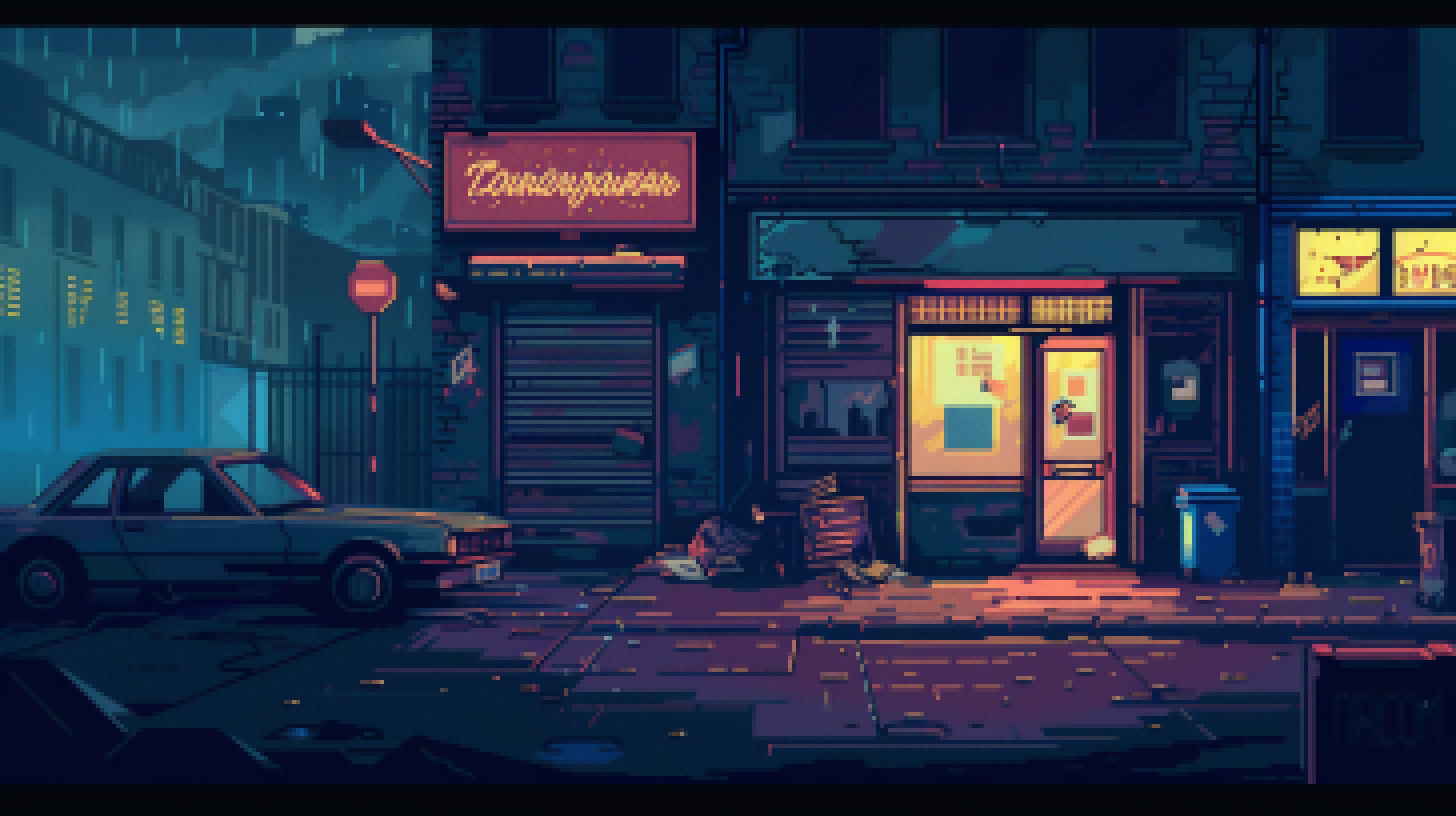
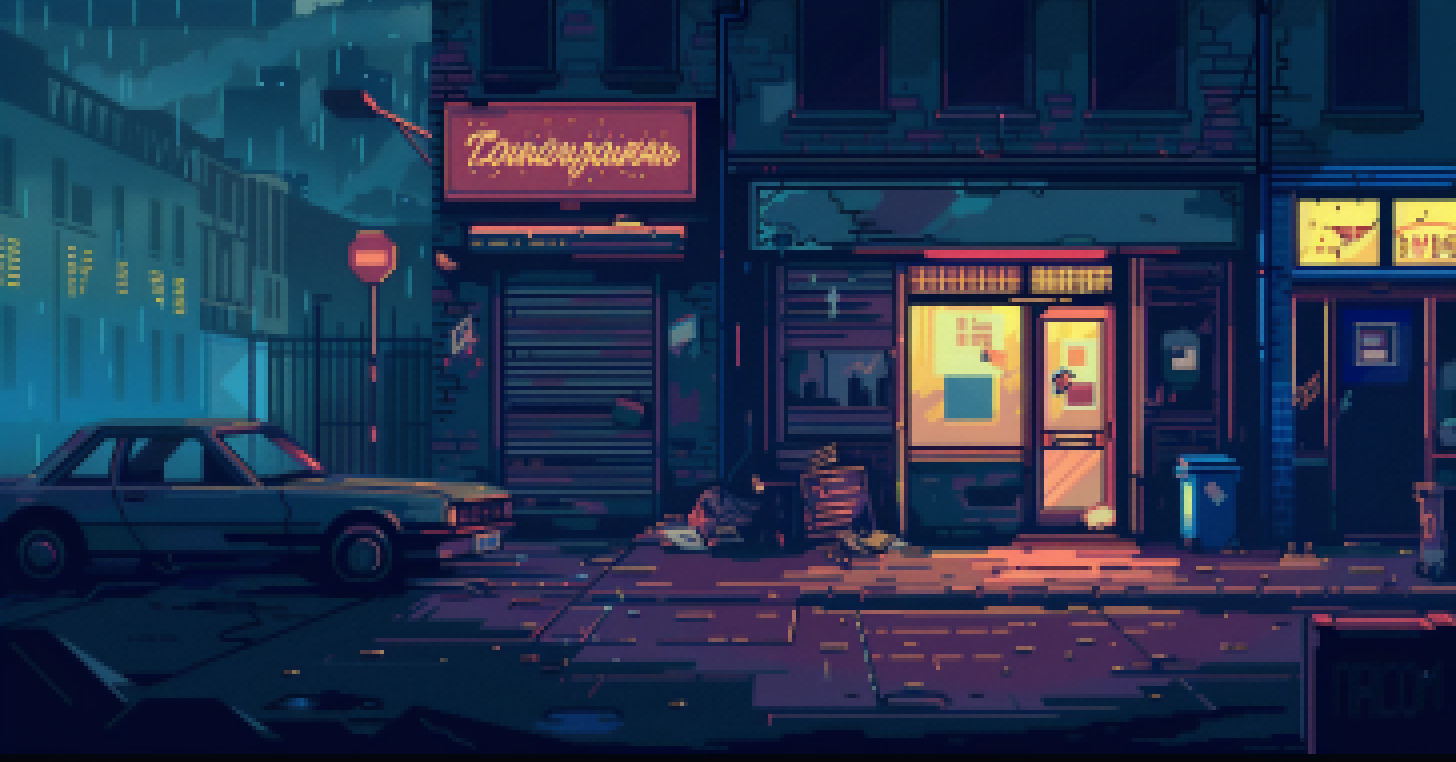
schöner spaghetticode

diff --git a/script.js b/script.js
@@ -4,18 +4,25 @@ const ctx = canvas.getContext("2d");
 canvas.width = 800;
 canvas.height = 400;
 
-// Hintergrund zeichnen
-function drawBackground() {
-  const img = new Image();
-  img.src = './assets/background/Rusted_4.png';
-  ctx.drawImage(img, 0, 0, canvas.width, canvas.height)
+const background = new Image();
+background.src = './assets/background/Rusted_4.webp'; 
+// Hintergrund zeichnen/async damit der background laden kann
+
+background.onload = () => {
+  drawBackground()
 }
+
+function drawBackground() {
+  ctx.drawImage(background, 0, 0, canvas.width, canvas.height)
+}
+
 // initialisiere sprite sheet
 const player1SpriteSheet = new Image();
 player1SpriteSheet.src ="./assets/sprites/Bancho/Sprite_Sheet/Bancho_Idle.png"; 
 
 const player2SpriteSheet = new Image();
 player2SpriteSheet.src ="./assets/sprites/BruteArms/Sprite_Sheet/BruteArm_Idle.png";
+
 // Animationseinstellungen
 const spriteConfig = {
     frameWidth: 100, // Width of each frame in the sprite sheet
@@ -27,17 +34,10 @@ const spriteConfig = {
     frameTimer: 0, // Timer to track animation updates
   };
 
-const player1Sprite = new Image();
-player1Sprite.src = "assets/sprites/Bancho/Sprite Sheets/Bancho_Idle-png"; // Pfad zum Bild für Spieler 1
-
-const player2Sprite = new Image();
-player2Sprite.src = "sprites/player2.png"; // Pfad zum Bild für Spieler 2
-
-
 // Charakter-Objekte
 const player1 = {
   x: 100,
-  y: 190,
+  y: 150,
   width: 200,
   height: 200,
   color: "blue",
@@ -56,14 +56,14 @@ const player1 = {
 
 const player2 = {
   x: 600,
-  y: 190,
+  y: 150,
   width: 200,
   height: 200,
   color: "green",
   speed: 5,
   velocityY: 0,
   isJumping: false,
-  jumpStrength: -15,
+  jumpStrength: -17,
   gravity: 0.8,
   action: null,
   health: 300,
@@ -72,6 +72,21 @@ const player2 = {
   damageAttack1: 5,
   damageAttack2: 10,
 };
+
+let obstacle1 = {
+  width: 120,
+  height: 160
+}
+
+let obstacle2 = {
+  width: 120,
+  height: 160
+}
+
+let obstacle = {
+  width: 120,
+  height: 160
+}
 
 // Spieler zeichnen (mit Animation)
 function drawPlayer(player, sprite, currentFrame) {
@@ -84,21 +99,13 @@ function drawPlayer(player, sprite, currentFrame) {
       player.x, // Destination X
       player.y, // Destination Y
       player.width, // Drawn width
-      player.height // Drawn height
+      player.height, // Drawn height
     );
   }
   
   function updateAnimationFrames() {
-    // spriteConfig.frameTimer += deltaTime;
 
-    // if (spriteConfig.frameTimer >= spriteConfig.animationSpeed) {
-    //   // Increment frames for both players
-    //   spriteConfig.player1Frame = (spriteConfig.player1Frame + 1) % spriteConfig.totalFrames;
-    //   spriteConfig.player2Frame = (spriteConfig.player2Frame + 1) % spriteConfig.totalFrames;
-  
-    //   // Reset timer
-    //   spriteConfig.frameTimer = 0;
-    // }
+
     if (player1.action === "jump") {
       spriteConfig.player1Frame = (spriteConfig.player1Frame + 1) % 4; // Nur 4 Frames für Sprung
     } else if (player1.action === "attack1") {
@@ -167,8 +174,8 @@ function update() {
   if (player1.isJumping) {
     player1.y += player1.velocityY;
     player1.velocityY += player1.gravity;
-    if (player1.y >= 300) {
-      player1.y = 300;
+    if (player1.y >= 150) {
+      player1.y = 150;
       player1.velocityY = 0;
       player1.isJumping = false;
     }
@@ -185,8 +192,8 @@ function update() {
   if (player2.isJumping) {
     player2.y += player2.velocityY;
     player2.velocityY += player2.gravity;
-    if (player2.y >= 300) {
-      player2.y = 300;
+    if (player2.y >= 150) {
+      player2.y = 150;
       player2.velocityY = 0;
       player2.isJumping = false;
     }
@@ -198,12 +205,13 @@ function update() {
 }
 
 // Überprüfe Modellkollision
-function checkModelOverlap(player1, player2) {
+function checkModelOverlap(obstacle1, obstacle2) {
+
   return (
-    player1.x < player2.x + player2.width &&
-    player1.x + player1.width > player2.x &&
-    player1.y < player2.y + player2.height &&
-    player1.y + player1.height > player2.y
+    obstacle1.x < obstacle2.x + obstacle2.width &&
+    obstacle1.x + obstacle1.width > obstacle2.x &&
+    obstacle1.y < obstacle2.y + obstacle2.height &&
+    obstacle1.y + obstacle1.height > obstacle2.y
   );
 }
 
@@ -325,6 +333,15 @@ function resetAction(player, delay) {
   }, delay);
 }
 
+// hitbox simulieren
+function drawObstacle() {
+  ctx.beginPath();
+  ctx.fillStyle = "red"
+  ctx.fillRect(player1.x +20 ,player1.y + 30,obstacle1.width, obstacle1.height);
+  ctx.fillRect(player2.x + 20 ,player2.y + 30,obstacle2.width, obstacle2.height);
+  ctx.closePath();
+}
+
 // Spiel-Loop
 function gameLoop() {
   ctx.clearRect(0, 0, canvas.width, canvas.height);
@@ -332,6 +349,7 @@ function gameLoop() {
   handleAnimations();
   drawPlayer(player1, player1SpriteSheet, spriteConfig.player1Frame);
   drawPlayer(player2, player2SpriteSheet, spriteConfig.player2Frame);
+  drawObstacle();
   updateAnimationFrames();
   drawHitbox(player1);
   drawHitbox(player2);
@@ -342,9 +360,10 @@ function gameLoop() {
   update();
   requestAnimationFrame(gameLoop);
 }
+
 gameLoop();
 
-
+// Timer
 {
     let timer = 120;
     const timerDisplay = document.getElementById('timer');
@@ -370,4 +389,10 @@ gameLoop();
     } else {
         console.warn('Timer-Element nicht gefunden!');
     }
+}
+
+document.getElementById('pause').addEventListener('click', pauseGame);
+
+function pauseGame(){
+  console.log("im working");
 }

diff --git a/main.css b/main.css
@@ -84,3 +84,13 @@ body {
     width: 100%;
     height: 100%;
 }
+
+#pause{
+    position: absolute;
+    color: white;
+    top: 0;
+    left: 0;
+    z-index: 100;
+    animation: colorturn 1s steps(3) infinite;
+    cursor: pointer;
+}

diff --git a/index.html b/index.html
@@ -10,6 +10,7 @@
 </head>
 <body>
     <div id="game-container">
+        <div id="pause">pause</div>
         <div id="topbar">
             <div class="player" id="player1-health"></div>
             <div id="timer">120</div>

diff --git a/README.md b/README.md
@@ -1,2 +1,14 @@
 # Streetfighter-for-Poor
 Einfaches Streetfighter game
+
+
+## Todo liste:
+
+
+- effekte, wetter, schlagen 
+- sounds, gewitter, schlagen, jump etc
+- map und character select
+- evtl. 3 akt
+- Unterschiedliche timer 
+? Menu erstellen
+- pause sceen
